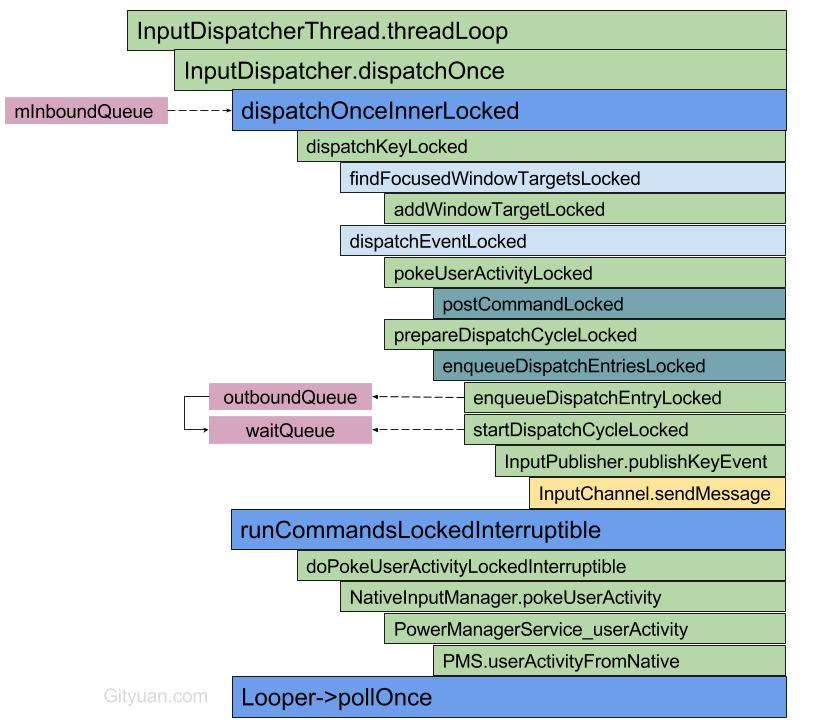
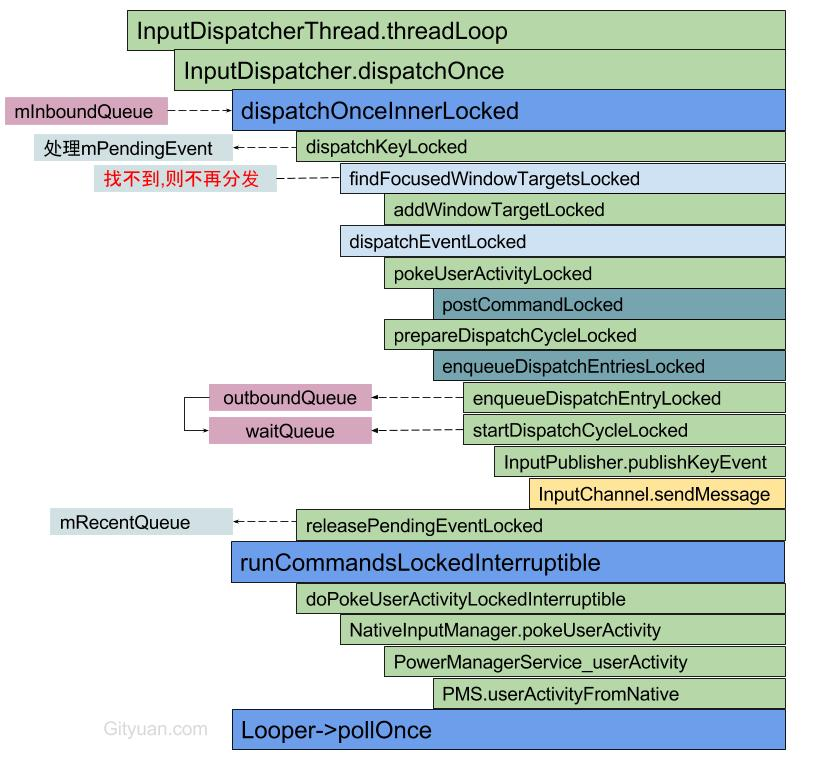
improve input

diff --git a/_posts/2017-01-01-input-anr.md b/_posts/2017-01-01-input-anr.md
@@ -974,20 +974,122 @@ inputDispatching的超时为`KEY_DISPATCHING_TIMEOUT`，即timeout = 5s。
         }
     }
 
-## 四. 总结
+## 四. input死锁监测机制
 
-### 4.1 dispatching超时类型
+[-> InputManagerService.java]
+
+    public void start() {
+        ...
+        Watchdog.getInstance().addMonitor(this);
+        ...
+    }
+
+InputManagerService实现了Watchdog.Monitor接口, 并且在启动过程将自己加入到了Watchdog线程的monitor队列. 
+
+### 4.1 IMS.monitor
+Watchdog便会定时调用IMS.monitor()方法.
+
+    public void monitor() {
+        synchronized (mInputFilterLock) { }
+        nativeMonitor(mPtr);
+    }
+
+nativeMonitor经过JNI调用,进如如下方法
+
+static void nativeMonitor(JNIEnv* /* env */, jclass /* clazz */, jlong ptr) {
+    NativeInputManager* im = reinterpret_cast<NativeInputManager*>(ptr);
+
+    im->getInputManager()->getReader()->monitor(); //见小节4.2
+    im->getInputManager()->getDispatcher()->monitor(); //见小节4.4
+}
+
+### 4.2 InputReader
+[-> InputReader.cpp]
+
+    void InputReader::monitor() {
+        //请求和释放一次mLock,来确保reader没有发生死锁的问题
+        mLock.lock();
+        mEventHub->wake();
+        mReaderIsAliveCondition.wait(mLock);
+        mLock.unlock();
+
+        //监测EventHub
+        mEventHub->monitor();
+    }
+
+获取mLock之后进入Condition类型的wait()方法,等待InputReader线程的loopOnce()中的broadcast()来唤醒.
+
+    void InputReader::loopOnce() {
+        size_t count = mEventHub->getEvents(timeoutMillis, mEventBuffer, EVENT_BUFFER_SIZE);
+        ...
+        
+        {
+            AutoMutex _l(mLock);
+            mReaderIsAliveCondition.broadcast();
+            if (count) {
+                processEventsLocked(mEventBuffer, count);
+            }
+        }
+        ...
+        
+        mQueuedListener->flush();
+    }
+    
+### 4.3 EventHub
+[-> EventHub.cpp]
+
+    void EventHub::monitor() {
+        //请求和释放一次mLock,来确保reader没有发生死锁的问题
+        mLock.lock();
+        mLock.unlock();
+    }
+    
+    
+### 4.4 InputDispatcher
+[-> InputDispatcher.cpp]
+
+    void InputDispatcher::monitor() {
+        mLock.lock();
+        mLooper->wake();
+        mDispatcherIsAliveCondition.wait(mLock);
+        mLock.unlock();
+    }
+
+获取mLock之后进入Condition类型的wait()方法,等待IInputDispatcher线程的loopOnce()中的broadcast()来唤醒.
+
+    void InputDispatcher::dispatchOnce() {
+        nsecs_t nextWakeupTime = LONG_LONG_MAX;
+        {
+            AutoMutex _l(mLock);
+            mDispatcherIsAliveCondition.broadcast();
+
+            if (!haveCommandsLocked()) {
+                dispatchOnceInnerLocked(&nextWakeupTime);
+            }
+
+            if (runCommandsLockedInterruptible()) {
+                nextWakeupTime = LONG_LONG_MIN;
+            }
+        }
+
+        nsecs_t currentTime = now();
+        int timeoutMillis = toMillisecondTimeoutDelay(currentTime, nextWakeupTime);
+        mLooper->pollOnce(timeoutMillis); //进入epoll_wait
+    }
+
+## 五. 总结
+
+### 5.1 dispatching超时类型
 
 由小节[3.5] InputMonitor.notifyANR完成, 当发生ANR时system log中会出现以下信息：
 
-    // 窗口
-    Input event dispatching timed out sending to `windowState.mAttrs.getTitle()`.  Reason: + `reason`
-    // 应用
-    Input event dispatching timed out sending to application `appWindowToken.stringName`.  Reason: + `reason`
-    // 其他
-    Input event dispatching timed out. Reason: + `reason`
+Input event dispatching timed out xxx. Reason: + `reason`, 其中xxx取值:
 
-### 4.2 reason类型
+- 窗口类型: sending to `windowState.mAttrs.getTitle()`
+- 应用类型: sending to application `appWindowToken.stringName`
+- 其他类型: 则为空.
+
+### 5.2 reason类型
 由小节[2.3.1]checkWindowReadyForMoreInputLocked完成， ANR reason主要有以下几类：
 
 1. **无窗口, 有应用**：Waiting because no window has focus but there is a focused application that may eventually add a window when it finishes starting up.
@@ -1001,7 +1103,7 @@ inputDispatching的超时为`KEY_DISPATCHING_TIMEOUT`，即timeout = 5s。
 - targetType的取值为"focused"或者"touched"
 - Connection.Status的取值为"NORMAL"，"BROKEN"，"ZOMBIE"
 
-### 4.3 dropReason类型
+### 5.3 dropReason类型
 由小节[2.1.2] dropInboundEventLocked完成，输出事件丢弃的原因：
 
 1. DROP_REASON_POLICY: "inbound event was dropped because the policy consumed it";
@@ -1012,5 +1114,16 @@ inputDispatching的超时为`KEY_DISPATCHING_TIMEOUT`，即timeout = 5s。
 5. DROP_REASON_STALE: "inbound event was dropped because it is stale";
 
 其他:
+
 - doDispatchCycleFinishedLockedInterruptible的过程, 会记录分发时间超过2s的事件,
 - findFocusedWindowTargetsLocked的过程, 可以统计等待时长信息过程测信息.
+
+### 5.4 input死锁监测机制
+
+通过将InputManagerService加入到Watchdog的monitor队列,定时监测是否发生死锁. 整个监测过涉及EventHub, InputReader,
+InputDispatcher, InputManagerService的死锁监测. 监测的原理很简单,通过尝试获取锁并释放锁的方式.
+
+最后, 可通过`adb shell dumpsys input`来查看手机当前的input状态, 输出内容分别为EventHub.dump(),
+InputReader.dump(),InputDispatcher.dump()这3类,另外如果发生过input ANR,那么也会输出上一个ANR的状态.
+
+其中mPendingEvent代表的当下正在处理的事件.

diff --git a/_posts/2016-12-17-input-dispatcher.md b/_posts/2016-12-17-input-dispatcher.md
@@ -28,7 +28,7 @@ InputDispatcher，同样从threadLoop为起点开始分析。
     InputDispatcherThread.threadLoop
       InputDispatcher.dispatchOnce
         InputDispatcher.dispatchOnceInnerLocked
-          dispatchKeyLocked
+        runCommandsLockedInterruptible
         Looper->pollOnce
         
 先来回顾一下InputDispatcher对象的初始化过程:
@@ -138,7 +138,7 @@ InputDispatcher，同样从threadLoop为起点开始分析。
         
         if (done) { //分发操作完成，则进入该分支
             ...
-            releasePendingEventLocked(); //释放pending事件
+            releasePendingEventLocked(); //释放pending事件[2.10]
             *nextWakeupTime = LONG_LONG_MIN; //强制立刻执行轮询
         }
     }
@@ -148,7 +148,7 @@ InputDispatcher，同样从threadLoop为起点开始分析。
 -  mDispatchFrozen: 决定是否冻结事件分发工作不再往下执行;
   - 当mDispatchFrozen == true，则不再分发；
 -  mPendingEvent：决定是否需要再取一次事件，从mInboundQueue头部取出事件,放入mPendingEvent变量;并重置ANR时间;
-  - 当mPendingEvent == false，则不再分发；
+  - 当mPendingEvent为空，则不再分发；
 - 根据EventEntry的type类型分别处理:
     - TYPE_KEY: 则调用dispatchKeyLocked分发事件;
     - TYPE_MOTION: 则调用dispatchMotionLocked分发事件;
@@ -180,6 +180,15 @@ InputDispatcher，同样从threadLoop为起点开始分析。
                 entry, inputTargets, nextWakeupTime);
                 
         ...
+        if (injectionResult == INPUT_EVENT_INJECTION_PENDING) {
+            return false;
+        }
+
+        setInjectionResultLocked(entry, injectionResult);
+        if (injectionResult != INPUT_EVENT_INJECTION_SUCCEEDED) {
+            return true;
+        }
+        
         //只有injectionResult成功，才有机会执行分发事件【见小节2.4】
         dispatchEventLocked(currentTime, entry, inputTargets);
         return true;
@@ -397,7 +406,7 @@ mFocusedWindowHandle是何处赋值呢？是在InputDispatcher.setInputWindows()
               case EventEntry::TYPE_KEY: {
                   KeyEntry* keyEntry = static_cast<KeyEntry*>(eventEntry);
 
-                  //发布Key事件 [见小节2.10]
+                  //发布Key事件 [见小节2.9]
                   status = connection->inputPublisher.publishKeyEvent(dispatchEntry->seq,
                           keyEntry->deviceId, keyEntry->source,
                           dispatchEntry->resolvedAction, dispatchEntry->resolvedFlags,
@@ -409,7 +418,7 @@ mFocusedWindowHandle是何处赋值呢？是在InputDispatcher.setInputWindows()
               ...
             }
 
-            if (status) { //发布结果分析
+            if (status) { //publishKeyEvent失败情况
                 if (status == WOULD_BLOCK) {
                     if (connection->waitQueue.isEmpty()) {
                         //pipe已满,但waitQueue为空. 不正常的行为
@@ -439,7 +448,7 @@ mFocusedWindowHandle是何处赋值呢？是在InputDispatcher.setInputWindows()
   - WOULD_BLOCK，且waitQueue不等于空，则处于阻塞状态，即inputPublisherBlocked=true
   - 其他情况，则调用abortBrokenDispatchCycleLocked
     
-### 2.10  inputPublisher.publishKeyEvent
+### 2.9  inputPublisher.publishKeyEvent
 [-> InputTransport.cpp]
 
     status_t InputPublisher::publishKeyEvent(...) {
@@ -466,6 +475,16 @@ mFocusedWindowHandle是何处赋值呢？是在InputDispatcher.setInputWindows()
     
 InputChannel通过socket向远端的socket发送消息。socket通道是如何建立的呢？
 InputDispatcher又是如何与前台的window通信的呢？ 见下一篇文章[]()
+
+### 2.10 releasePendingEventLocked
+
+    void InputDispatcher::releasePendingEventLocked() {
+        if (mPendingEvent) {
+            resetANRTimeoutsLocked(); //重置ANR超时时间
+            releaseInboundEventLocked(mPendingEvent); //释放mPendingEvent对象,并记录到mRecentQueue队列
+            mPendingEvent = NULL; //置空mPendingEvent变量.
+        }
+    }
 
 ## 三. 处理Comand
 

diff --git a/_posts/2016-12-24-input-ui.md b/_posts/2016-12-24-input-ui.md
@@ -718,6 +718,6 @@ ViewRootImpl的setView()过程:
 紧接着，完成了两个线程的epoll监听工作：
 
 - [小节2.8]IMS.registerInputChannel(): “InputDispatcher”线程监听socket服务端，收到消息后回调InputDispatcher.handleReceiveCallback()；
-- [小节3.6]setFdEvents(): UI主线程监听socket客户端，收到消息后回调NNativeInputEventReceiver.handleEvent().
+- [小节3.6]setFdEvents(): UI主线程监听socket客户端，收到消息后回调NativeInputEventReceiver.handleEvent().
 
 有了这些“InputDispatcher”和“UI”主线程便可以进行跨进程通信与交互。

diff --git a/ongoing/wms/wms2.md b/ongoing/wms/wms2.md
@@ -41,10 +41,13 @@ TaskRecord <–> Task
 - IWindowManager：app进程 --> system_server进程 通信；
 - IWindowSession：app进程 --> system_server进程 通信；
 - IApplicationToken: app进程 --> system_server进程 通信；
+
 - IWindow: system_server进程 --> app进程 通信；
+
 
 Session extends IWindowSession.Stub, 作为Binder服务端
 WindowManagerService extends IWindowManager.Stub:   Binder的服务端
+
 ActivityRecord.Token extends IApplicationToken.Stub (服务端,)
 
 BaseIWindow extends IWindow.Stub: Binder服务端 (运行在app这边)
